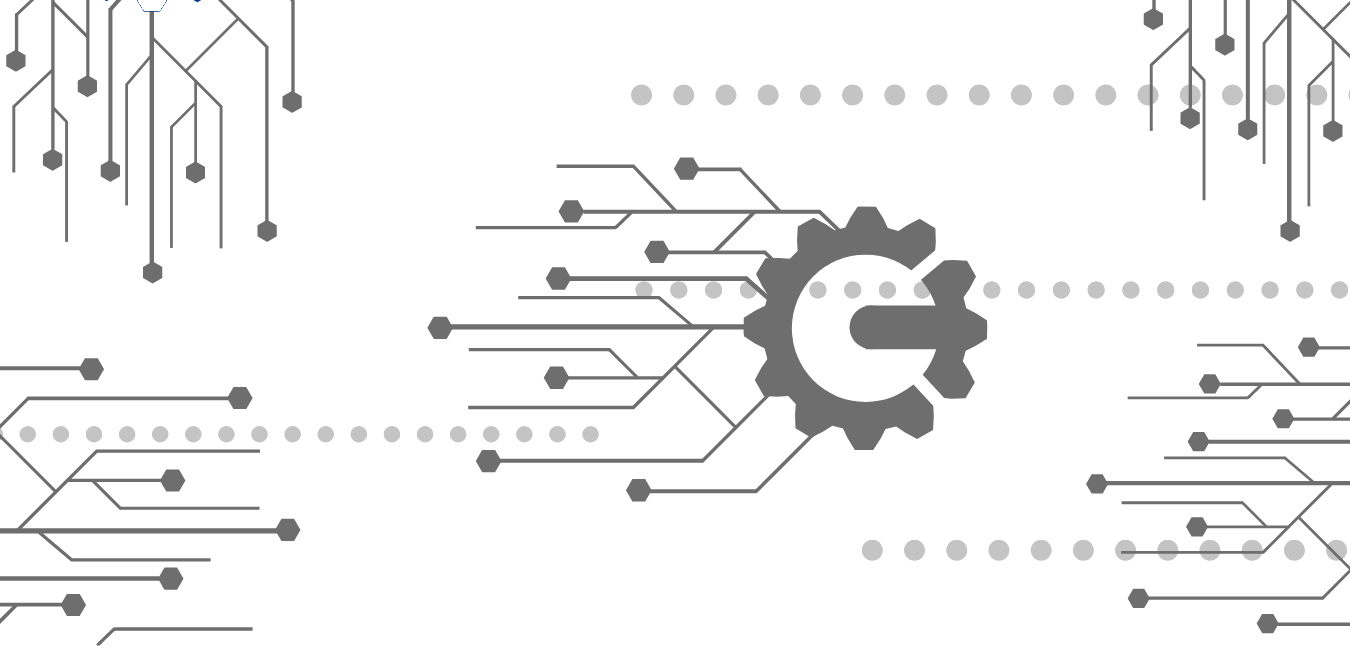
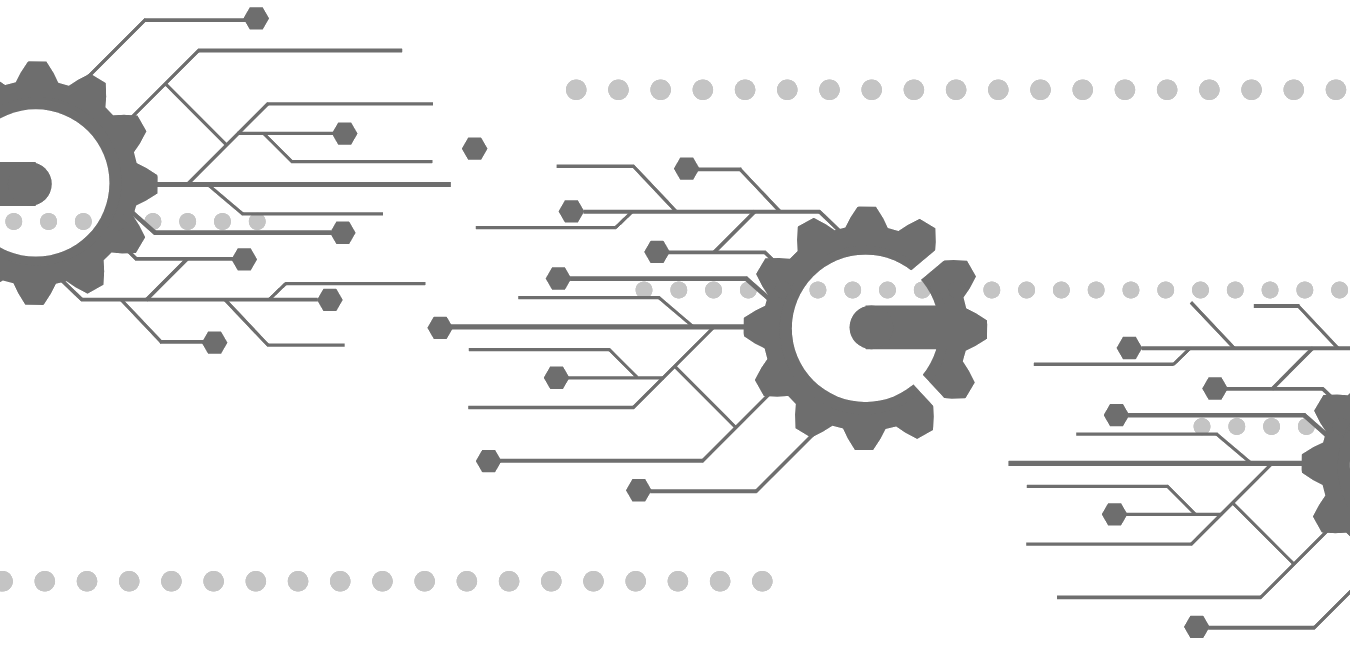
dskndsk

diff --git a/css/style.css b/css/style.css
@@ -33,7 +33,7 @@ body { overflow-x: hidden; background-image: linear-gradient(rgba(255,255,255,0.
     min-height: 100vh;
     background: url(../img/banner2.png);
     background-size: cover;
-    background-position: right;
+    background-position: center;
     background-repeat: no-repeat;
     background-position-y: 0em;
     display: flex;
@@ -940,13 +940,17 @@ svg circle:nth-child(2){
 @media(max-width:480px) {
     body { overflow-x: hidden; }
 
+    .banner{
+        background-image: url(../img/banner3.png) !important;
+    }
+
 
     .divisória {
         margin-top: 10em;
     }
 
     .textobanner {
-        margin-left: -2em;
+        margin-left: -1em;
         margin-top: -8em;
     }
 
@@ -1151,6 +1155,7 @@ svg circle:nth-child(2){
 
 @media(min-width:661px) and (max-width:1019px){
 
+    
     .banner h2 .nomeempresa {
         font-size: 1.5em;
     }
@@ -1230,11 +1235,7 @@ svg circle:nth-child(2){
 
 }
 
-@media(min-width:1020) and (max-width:1100){
-    .banner{
-        background-position-y: -17.5em;
-    }
-}
+
 
 
 @media(min-width:1020px) and (max-width:1200px){
@@ -1320,6 +1321,10 @@ svg circle:nth-child(2){
 
 @media(max-width: 991px){
     
+    .banner{
+        background-image: url(../img/banner.png);
+    }
+
     header, header.sticky{
         padding: 5px 50px;
     }
@@ -1382,7 +1387,7 @@ svg circle:nth-child(2){
     }
 
     .banner h2{
-        font-size: 2.3em;  
+        font-size: 1.7em;  
     }
 
     .banner h3{
